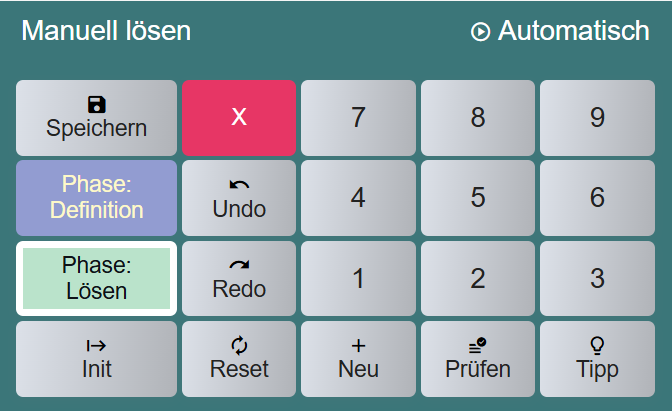
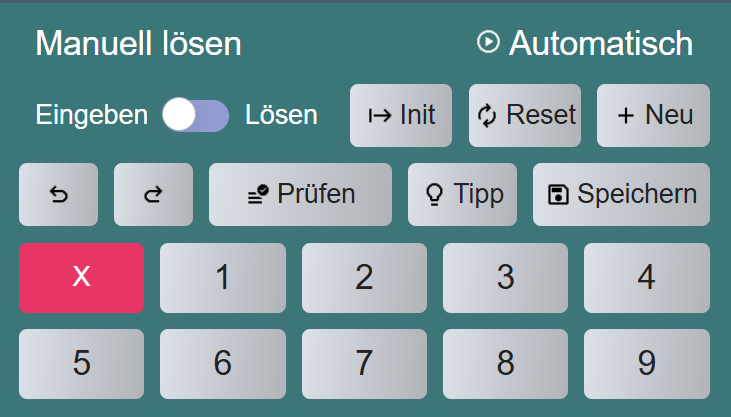
v1.9.15

diff --git a/CSS/screen.css b/CSS/screen.css
@@ -2113,7 +2113,6 @@ Für Text: color: #222; oder color: #424242;
 /* ================ LANDSCAPE ================= */
 @media (orientation: landscape) {
 
-
     .app-content {
         position: relative;
         /* width: clamp(320px, 95vw, 1024px);*/
@@ -2153,11 +2152,10 @@ Für Text: color: #222; oder color: #424242;
         height: calc(100dvh - 15rem);
     }
 
-
     .tableFixHead {
         overflow-y: auto;
         /* make the table scrollable if height is more than 200 px  */
-        height: 12rem;
+        height: 20rem;
         /* gives an initial height of 200px to the table */
     }
 }

diff --git a/JS/sudokuCommon.js b/JS/sudokuCommon.js
@@ -1,5 +1,5 @@
 let sudoApp;
-let VERSION = 'v1.9.14';
+let VERSION = 'v1.9.15';
 
 // ==========================================
 // Basic classes

diff --git a/sw.js b/sw.js
@@ -9,7 +9,7 @@ var APP_PREFIX = 'sudo_';
 // you need to change this version (version_01, version_02…). 
 // If you don't change the version, the service worker will give your
 // users the old files!
-var VERSION = 'version_1.9.14';
+var VERSION = 'version_1.9.15';
 
 // The files to make available for offline use. make sure to add 
 // others to this list

diff --git a/help.md b/help.md
@@ -201,6 +201,8 @@ Die Sudoku-Explorer-App ist eine Progressive Web App (PWA). Wie eine native App 
     <figcaption style="font-size: 16px; font-style: italic">Tastenblock Manuell</figcaption>
 </figure>
 
+**Schiebetaste "Eingeben" - "Lösen".** Für das Eingeben eines Puzzles muss dieser Schalter auf "Eingeben" gestzt werden. Nach Beendigung der Eingabe wird der Schalter auf "Lösen" gesetzt. Im Hintergrund berechnet der Explorer den Schwierigkeitsgrad des eingegebenen Puzzles und zeigt diesen oben rechts über der Matrix an.
+
 **Taste Init.** Jederzeit kann der Explorer initialisiert werden. Dabei wird das aktuell gespielte Puzzle gelöscht und der Solver initialisert. Die bereits gespeicherten Puzzles bleiben unverändert erhalten.
 
 **Taste Reset.** Das aktuelle Puzzle wird zurückgesetzt auf die Aufgabenstellung. D.h. alle in der Lösungsphase gesetzten Zellen, die grünen Zellen, werden gelöscht. Die Givens bleiben erhalten. Per Undo kann diese Operation zurückgenommen werden.